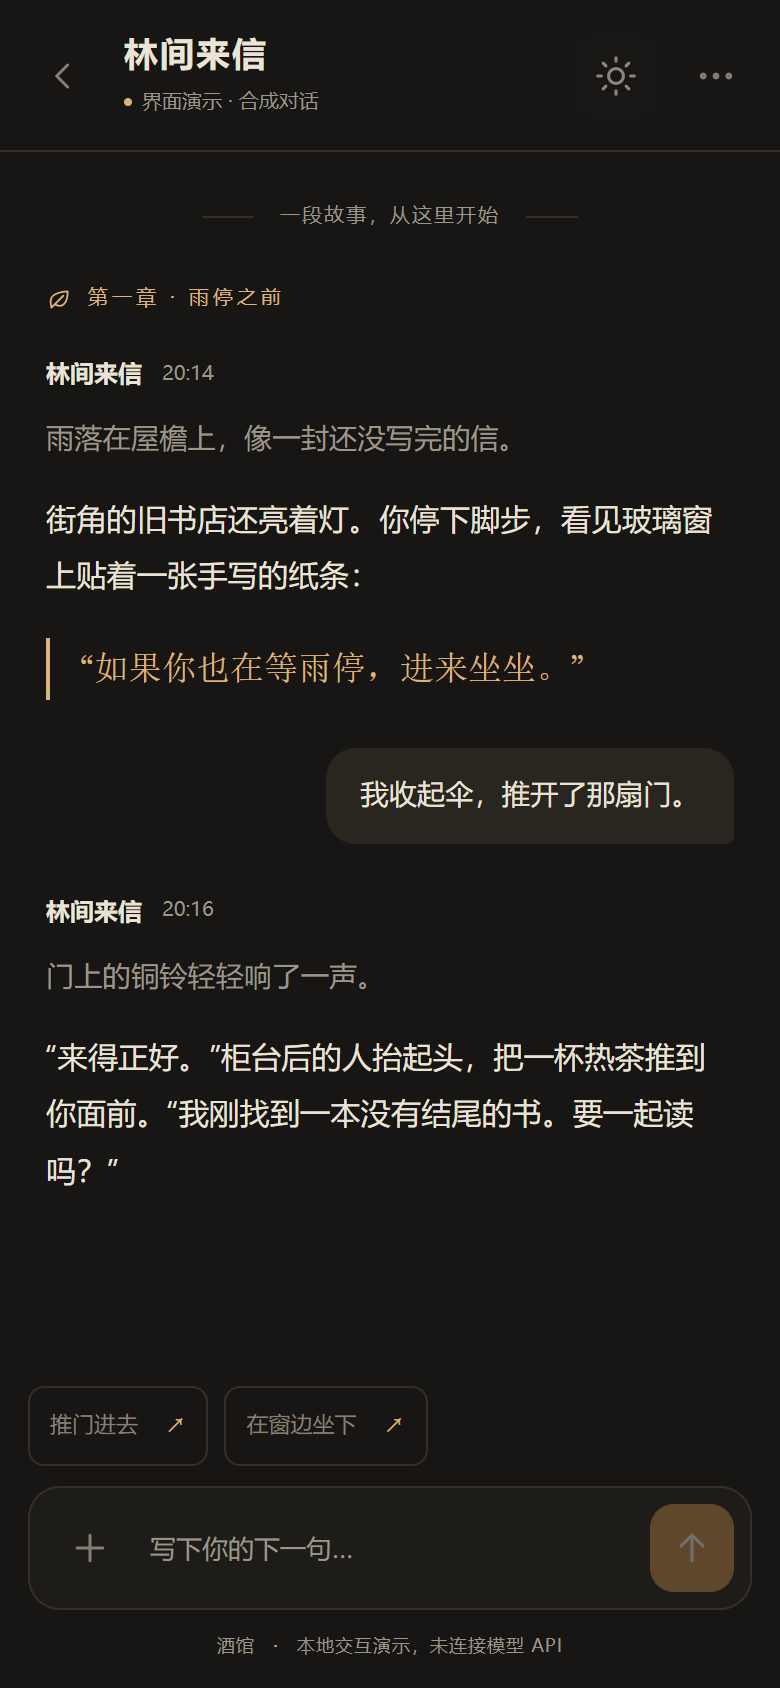
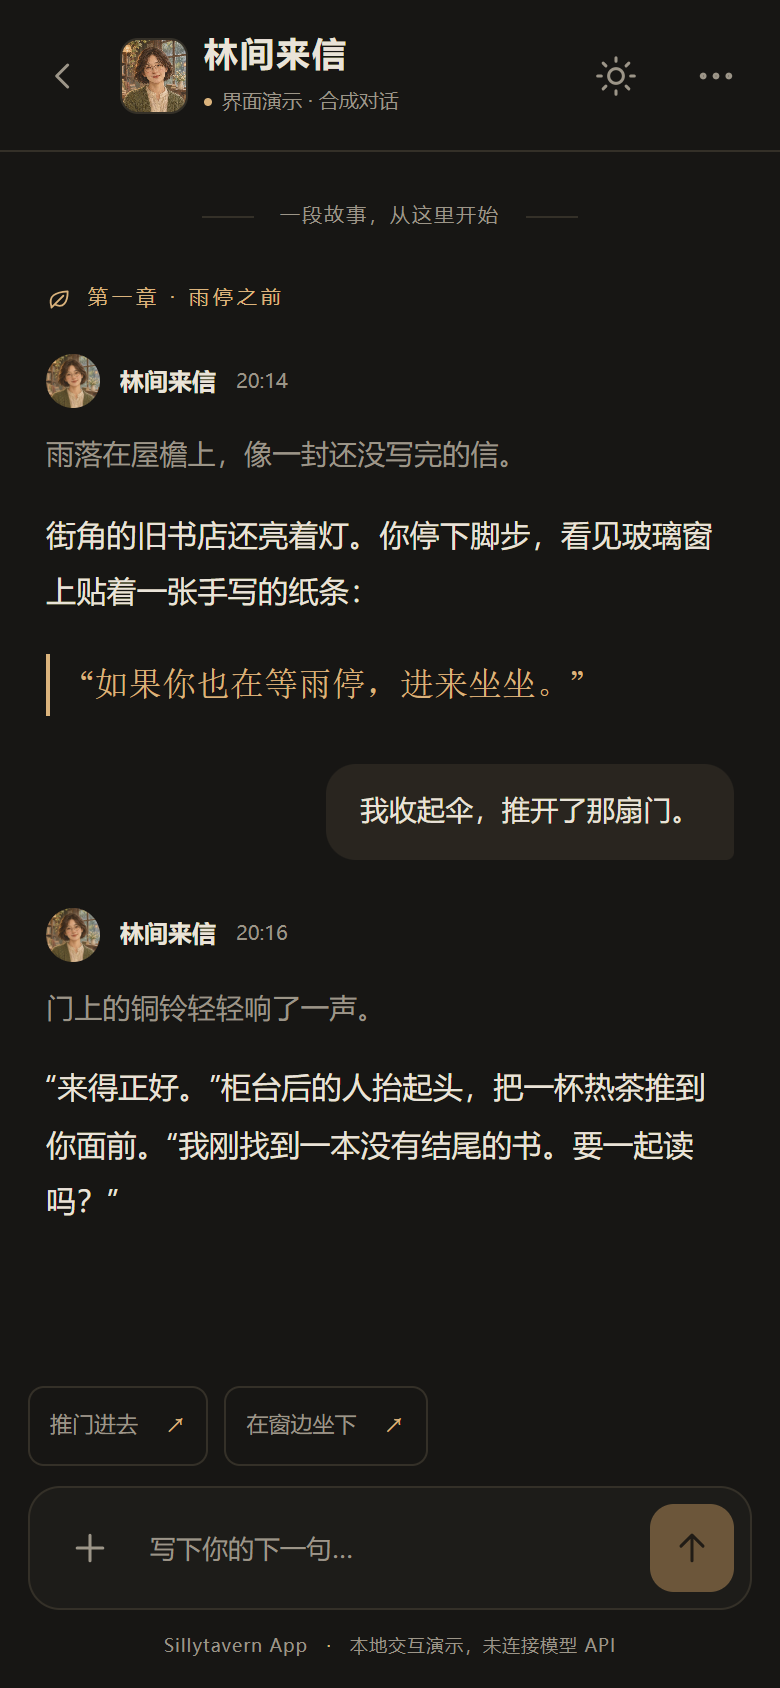
Rename project to Sillytavern App and refresh README with original artwork

diff --git a/app/src/main/java/io/jiuguan/mobile/TavernService.kt b/app/src/main/java/io/jiuguan/mobile/TavernService.kt
@@ -13,7 +13,7 @@ class TavernService : Service() {
     private val worker = Executors.newSingleThreadExecutor()
     private lateinit var runtime: TavernRuntime
     private val listeners = mutableSetOf<(State) -> Unit>()
-    var state = State("starting", "正在准备酒馆…")
+    var state = State("starting", "正在准备 Sillytavern App…")
         private set
     private var launched = false
     private var destroyed = false
@@ -22,7 +22,7 @@ class TavernService : Service() {
         super.onCreate()
         runtime = TavernRuntime(this)
         getSystemService(NotificationManager::class.java).createNotificationChannel(
-            NotificationChannel("tavern", "酒馆本机服务", NotificationManager.IMPORTANCE_LOW))
+            NotificationChannel("tavern", "Sillytavern App 本机服务", NotificationManager.IMPORTANCE_LOW))
     }
     override fun onBind(intent: Intent) = binder
     fun observe(listener: (State) -> Unit) { listeners.add(listener); listener(state) }
@@ -30,7 +30,7 @@ class TavernService : Service() {
 
     override fun onStartCommand(intent: Intent?, flags: Int, startId: Int): Int {
         if (intent?.action == "STOP") {
-            publish(State("stopped", "酒馆已停止，数据保留。重新打开应用即可继续。"))
+            publish(State("stopped", "Sillytavern App 已停止，数据保留。重新打开应用即可继续。"))
             worker.shutdownNow()
             Thread { runtime.stop() }.start()
             stopForeground(STOP_FOREGROUND_REMOVE)
@@ -45,7 +45,7 @@ class TavernService : Service() {
                     runtime.start { message -> main.post { publish(State("starting", message)) } }
                     main.post {
                         if (!destroyed && state.phase != "stopped") {
-                            publish(State("running", "酒馆正在本机运行", runtime.url))
+                            publish(State("running", "Sillytavern App 正在本机运行", runtime.url))
                             main.postDelayed(health, 3000)
                         }
                     }
@@ -67,7 +67,7 @@ class TavernService : Service() {
         override fun run() {
             if (destroyed || state.phase != "running") return
             if (!runtime.isAlive) {
-                publish(State("error", "酒馆服务已退出，请重新启动应用。"))
+                publish(State("error", "Sillytavern App 服务已退出，请重新启动应用。"))
                 stopForeground(STOP_FOREGROUND_REMOVE)
                 stopSelf()
             } else main.postDelayed(this, 3000)
@@ -85,8 +85,8 @@ class TavernService : Service() {
         val open = PendingIntent.getActivity(this, 0, Intent(this, MainActivity::class.java), PendingIntent.FLAG_IMMUTABLE or PendingIntent.FLAG_UPDATE_CURRENT)
         val stop = PendingIntent.getService(this, 1, Intent(this, TavernService::class.java).setAction("STOP"), PendingIntent.FLAG_IMMUTABLE or PendingIntent.FLAG_UPDATE_CURRENT)
         return Notification.Builder(this, "tavern").setSmallIcon(R.drawable.ic_tavern)
-            .setContentTitle("酒馆").setContentText(text).setContentIntent(open).setOngoing(true)
-            .addAction(Notification.Action.Builder(null, "停止酒馆", stop).build()).build()
+            .setContentTitle("Sillytavern App").setContentText(text).setContentIntent(open).setOngoing(true)
+            .addAction(Notification.Action.Builder(null, "停止服务", stop).build()).build()
     }
     override fun onDestroy() {
         destroyed = true

diff --git a/docs/demo/demo.js b/docs/demo/demo.js
@@ -6,19 +6,23 @@ const stories = [
 const transcript=document.querySelector('#transcript');
 const input=document.querySelector('#message');
 const send=document.querySelector('.send-button');
+const portraits=['lin-portrait.webp','star-portrait.webp','night-portrait.webp'];
+function portrait(index,className=''){
+  const img=document.createElement('img');img.src=`../images/${portraits[index]}`;img.alt='';img.className=className;img.width=48;img.height=48;return img;
+}
 let current=0;
 function icon(name){return `<svg aria-hidden="true"><use href="#${name}"/></svg>`;}
 function message(kind,text,time='20:16'){
   const item=document.createElement('article');item.className=`message ${kind}`;
   const label=document.createElement('div');label.className='message-label';
   const name=document.createElement('span');name.textContent=kind==='user'?'我':stories[current].title;
-  const clock=document.createElement('time');clock.textContent=time;label.append(name,clock);item.append(label);
+  const clock=document.createElement('time');clock.textContent=time;if(kind==='assistant')label.append(portrait(current,'message-avatar'));label.append(name,clock);item.append(label);
   for(const [i,line] of text.entries()){const p=document.createElement('p');p.textContent=line;if(kind==='assistant'&&i===0)p.className='narration';item.append(p);}
   return item;
 }
 function openStory(index){
   current=index;const story=stories[index];input.value='';send.disabled=true;
-  document.querySelector('#chat-title').textContent=story.title;document.querySelector('.chat-avatar').textContent=story.initial;
+  document.querySelector('#chat-title').textContent=story.title;document.querySelector('.chat-avatar').replaceChildren(portrait(index));
   transcript.replaceChildren();
   const date=document.createElement('div');date.className='date-divider';date.textContent='一段故事，从这里开始';transcript.append(date);
   const chapter=document.createElement('div');chapter.className='story-heading';chapter.innerHTML=icon('leaf');chapter.append(story.chapter);transcript.append(chapter);
@@ -30,7 +34,8 @@ function openStory(index){
 for(const nav of document.querySelectorAll('.conversations')){
   for(const [i,story] of stories.entries()){
     const b=document.createElement('button');b.className='conversation';b.dataset.story=i;
-    b.innerHTML=`<span class="initial">${story.initial}</span><span><strong>${story.title}</strong><small>${story.caption}</small></span>`;
+    b.innerHTML=`<span class="initial"></span><span><strong>${story.title}</strong><small>${story.caption}</small></span>`;
+    b.querySelector('.initial').append(portrait(i));
     b.addEventListener('click',()=>{openStory(i);document.querySelector('#chat-dialog').close();});nav.append(b);
   }
 }

diff --git a/docs/demo/index.html b/docs/demo/index.html
@@ -4,7 +4,7 @@
   <meta charset="utf-8">
   <meta name="viewport" content="width=device-width, initial-scale=1, viewport-fit=cover">
   <meta name="color-scheme" content="light dark">
-  <title>酒馆 · 聊天界面演示</title>
+  <title>Sillytavern App · 聊天界面演示</title>
   <link rel="stylesheet" href="style.css">
   <script src="demo.js" defer></script>
 </head>
@@ -22,7 +22,7 @@
   </svg>
   <main class="app">
     <aside class="sidebar" aria-label="演示会话">
-      <a class="brand" href="https://github.com/zjldg666/jiuguan"><span class="brand-mark">酒</span><span>酒馆<small>JIUGUAN</small></span></a>
+      <a class="brand" href="https://github.com/zjldg666/sillytavern-app"><span class="brand-mark">S</span><span>Sillytavern<small>APP</small></span></a>
       <div class="sidebar-intro">留一点时间，<br>给故事。</div>
       <p class="section-caption">演示会话</p>
       <nav class="conversations" aria-label="选择演示会话"></nav>
@@ -44,11 +44,11 @@
           <textarea id="message" rows="1" maxlength="600" placeholder="写下你的下一句…" aria-label="消息内容"></textarea>
           <button type="submit" class="send-button" aria-label="发送演示消息" disabled><svg><use href="#send"/></svg></button>
         </form>
-        <p class="demo-caption">酒馆 <span>·</span> 本地交互演示，未连接模型 API</p>
+        <p class="demo-caption">Sillytavern App <span>·</span> 本地交互演示，未连接模型 API</p>
       </footer>
     </section>
   </main>
-  <dialog id="info-dialog"><div class="dialog-body"><span class="eyebrow">ABOUT THIS DEMO</span><h2>只是一段演示。</h2><p>这里使用原创合成对话，展示酒馆的聊天阅读体验。发送内容只存在当前页面，回复为预置文本，不会调用模型 API。</p><p>这是独立的 README 演示前端，不是 Android 实机截图，也不作为 App 功能验收证据。</p><button class="dialog-close">知道了</button></div></dialog>
+  <dialog id="info-dialog"><div class="dialog-body"><span class="eyebrow">ABOUT THIS DEMO</span><h2>只是一段演示。</h2><p>这里使用原创合成对话与 AI 生成的原创角色肖像，展示 Sillytavern App 的聊天阅读体验。发送内容只存在当前页面，回复为预置文本，不会调用模型 API。</p><p>这是独立的 README 演示前端，不是 Android 实机截图，也不作为 App 功能验收证据。</p><button class="dialog-close">知道了</button></div></dialog>
   <dialog id="chat-dialog"><div class="dialog-body"><h2>选择一段故事</h2><nav class="conversations"></nav><button class="dialog-close">返回</button></div></dialog>
 </body>
 </html>

diff --git a/docs/demo/style.css b/docs/demo/style.css
@@ -12,7 +12,7 @@ svg { width:22px;height:22px; fill:none;stroke:currentColor;stroke-width:1.65;st
 .symbols { position:absolute;width:0;height:0;overflow:hidden; }
 .app { display:grid;grid-template-columns:264px minmax(0,780px);max-width:1044px;height:100dvh;margin:0 auto;border-inline:1px solid var(--line); }
 .sidebar { border-right:1px solid var(--line);padding:34px 22px;display:flex;flex-direction:column;background:var(--paper); }
-.brand { display:flex;gap:12px;align-items:center;text-decoration:none;color:var(--text);font-size:22px;font-weight:600;letter-spacing:2px; }
+.brand { display:flex;gap:12px;align-items:center;text-decoration:none;color:var(--text);font-size:20px;font-weight:600;letter-spacing:.2px; }
 .brand-mark { display:grid;place-items:center;width:42px;height:46px;border:1px solid var(--accent);border-radius:13px 13px 4px 4px;color:var(--accent);font-family:serif; }
 .brand small { display:block;font-size:9px;letter-spacing:3px;font-weight:400;line-height:1.2;color:var(--muted); }
 .sidebar-intro { margin:48px 0 36px;font-family:Georgia,"Songti SC",serif;font-size:26px;line-height:1.65;letter-spacing:1px; }
@@ -29,6 +29,9 @@ svg { width:22px;height:22px; fill:none;stroke:currentColor;stroke-width:1.65;st
 .workspace { display:flex;flex-direction:column;min-height:0;min-width:0; }
 .header { height:82px;display:flex;align-items:center;gap:12px;padding:0 28px;border-bottom:1px solid var(--line);flex-shrink:0;background:var(--bg); }
 .chat-avatar { display:grid;place-items:center;flex-shrink:0;width:40px;height:44px;border:1px solid var(--line);border-radius:11px;background:var(--paper);font:24px Georgia,"Songti SC",serif;color:var(--accent); }
+.chat-avatar,.conversation .initial { overflow:hidden; }
+.chat-avatar img,.initial img { display:block;width:100%;height:100%;object-fit:cover; }
+.message-avatar { width:27px;height:27px;object-fit:cover;border-radius:50%; }
 .heading { flex:1;min-width:0; }
 h1 { font-size:17px;line-height:1.3;letter-spacing:1px;font-weight:600;margin:0 0 5px; }
 .heading p { display:flex;align-items:center;gap:5px;font-size:10px;color:var(--muted);margin:0; }
@@ -78,7 +81,7 @@ h2 { font-size:23px;letter-spacing:1px;font-weight:500;margin:10px 0 18px; }
   .workspace { width:100%; }
   .header { height:76px;padding:0 10px;gap:6px; }
   .mobile-back { display:grid; }
-  .chat-avatar { display:none; }
+  .chat-avatar { display:grid;width:34px;height:38px;border-radius:9px; }
   .heading { padding-left:2px; }
   h1 { font-size:17px; }
   .transcript { padding:24px 23px 12px; }

diff --git a/app/src/main/java/io/jiuguan/mobile/MainActivity.kt b/app/src/main/java/io/jiuguan/mobile/MainActivity.kt
@@ -136,7 +136,7 @@ class MainActivity : Activity() {
             orientation = LinearLayout.VERTICAL; gravity = Gravity.CENTER
             setPadding(32, 32, 32, 32)
         }
-        title = TextView(this).apply { text = "酒馆"; textSize = 28f; gravity = Gravity.CENTER }
+        title = TextView(this).apply { text = "Sillytavern App"; textSize = 28f; gravity = Gravity.CENTER }
         status.addView(title)
         progress = ProgressBar(this)
         status.addView(progress, LinearLayout.LayoutParams(72, 72).apply { gravity = Gravity.CENTER; topMargin = 40; bottomMargin = 28 })
@@ -146,7 +146,7 @@ class MainActivity : Activity() {
         status.addView(retry)
         root.addView(status, FrameLayout.LayoutParams(-1, -1))
         applyChrome()
-        showStatus("正在准备酒馆…", false)
+        showStatus("正在准备 Sillytavern App…", false)
         if (Build.VERSION.SDK_INT >= 33 && checkSelfPermission(android.Manifest.permission.POST_NOTIFICATIONS) != android.content.pm.PackageManager.PERMISSION_GRANTED) {
             requestPermissions(arrayOf(android.Manifest.permission.POST_NOTIFICATIONS), 20)
         }
@@ -223,7 +223,7 @@ class MainActivity : Activity() {
         if (state.phase == "running" && state.url != null) {
             if (origin != state.url) {
                 origin = state.url
-                showStatus("正在打开酒馆…", false)
+                showStatus("正在打开 Sillytavern App…", false)
                 web.loadUrl(state.url)
             } else status.visibility = View.GONE
         } else showStatus(state.message, state.phase == "error" || state.phase == "stopped")

diff --git a/app/src/main/assets/extensions/jiuguan-mobile/index.js b/app/src/main/assets/extensions/jiuguan-mobile/index.js
@@ -433,7 +433,7 @@
             row.dataset.panel = drawer.id; group.append(row);
         }
         more.append(group); content.append(more);
-        content.append(node('p', 'jg-version', '酒馆 · SillyTavern 1.19.0'));
+        content.append(node('p', 'jg-version', 'Sillytavern App · SillyTavern 1.19.0'));
     }
 
     async function guarded(action) {

diff --git a/docs/images/README.md b/docs/images/README.md
@@ -1,9 +1,28 @@
-# 截图来源
+# README 图片来源
 
-`demo-chat-light.png` 与 `demo-chat-dark.png` 于 2026-11-10 从仓库 `docs/demo/index.html` 截取，浏览器视口 390 × 844、像素比例 2；图片为 780 × 1688。
+更新日期：2026-11-10。项目展示名称为 **Sillytavern App**。
 
-两张图展示独立 README 前端的白天 / 黑夜模式。对话是为本项目编写的合成内容，未使用第三方角色卡图片、用户聊天或模型 API；图片没有手机系统栏，不冒充真机截图。
+## 原创生成素材
 
-此前采集的第三方角色卡和个人设置截图已移出公开文档，只保留在被 Git 排除的本地测试产物中。
+以下四张插画使用用户授权的当前 API 端点，通过未经修改的官方 imagegen CLI 调用 `gpt-image-2` 生成，质量参数为 `medium`。未使用第三方角色卡、参考人物照片或用户私有素材。封面标题是生成后单独排版的文字。
 
-重新截图时在浏览器打开演示页，选择“林间来信”，使用上述视口；黑夜模式通过页面右上角切换。截图不作为 APK 验收证据，APK 检查见对应发布说明。
+- `tavern-cover.webp`：雨夜酒馆与书房，1599 × 900；加入项目名和简介。
+- `lin-portrait.webp`：林间来信的书店店主，640 × 640。
+- `star-portrait.webp`：星际漫游的领航员，640 × 640。
+- `night-portrait.webp`：夜航笔记的写作者，640 × 640。
+
+完整生成提示词保存在 [generation-prompts.jsonl](generation-prompts.jsonl)。封面生成时项目尚名 Jiuguan，最终排版已改为 Sillytavern App。请求尺寸为封面 1536 × 1024、角色 1024 × 1024；端点实际返回封面 1672 × 941、角色 1254 × 1254。发布素材等比例缩小并转为 WebP，四张合计约 490 KiB。
+
+这些图片是概念插画和虚构角色肖像，仅用于 README 与独立演示页，不是内置角色卡，也不代表 APK 内提供这些角色或故事。图片已逐张打开检查。
+
+## 浏览器截图
+
+`demo-chat-light.png` 与 `demo-chat-dark.png` 从仓库 `docs/demo/index.html` 实际渲染截图。浏览器视口 390 × 844、像素比例 2；图片尺寸为 780 × 1688。
+
+两张截图展示独立 README 前端的白天 / 黑夜模式，头像采用上述原创生成素材，对话是为本项目编写的合成内容。页面交互不调用模型 API、不读取个人数据。它们不是 Android 实机截图，也不作为 APK 验收证据。
+
+本次已检查 320 / 390 / 768 / 1280px 下的两种主题：无横向溢出，头像加载成功、输入框可见；主题切换、会话切换、发送预置回复与 Escape 关闭弹窗正常。无页面脚本错误或外部网络请求。检查后重新查看了发布截图。
+
+重新截图时在浏览器打开演示页，选择“林间来信”，使用上述视口；黑夜模式通过页面右上角切换或添加 `?theme=dark`。
+
+此前采集的第三方角色卡和个人设置截图不在公开文档内。APK 检查范围见对应发布说明，历史记录不因文档换图或项目更名而改变。

diff --git a/docs/ANDROID-BUILD.md b/docs/ANDROID-BUILD.md
@@ -40,7 +40,7 @@ $env:JIUGUAN_NODE = 'C:/Program Files/nodejs/node.exe'
 .\gradlew.bat :app:assembleDebug :app:lintDebug "-PnodeExecutable=$env:JIUGUAN_NODE"
 ```
 
-输出：`app/build/outputs/apk/debug/app-debug.apk`。包名：`io.jiuguan.mobile.debug`；名称：酒馆（开发版）。
+输出：`app/build/outputs/apk/debug/app-debug.apk`。包名：`io.jiuguan.mobile.debug`；名称：Sillytavern App（开发版）。
 
 首次构建自动生成 `.tools/android-debug.keystore`。不同机器的密钥可能不同，更新已有安装前先核对签名。Android Studio 中打开仓库根目录、选择 JDK 21、同步 Gradle，选择 app 的 debug 变体即可运行。
 

diff --git a/docs/demo/README.md b/docs/demo/README.md
@@ -4,6 +4,7 @@
 
 - 白天 / 黑夜切换，暖白与暖炭黑配色，琥珀色强调。
 - 三段原创合成对话：林间来信、星际漫游、夜航笔记。
+- 三位 AI 生成的原创角色肖像，图片随仓库提供，离线加载；不使用第三方角色卡。
 - 输入、快捷回复、会话选择与说明弹窗可以操作。
 - 发送内容只在页面内存中显示，回复为预置文本；不调用模型，不保存私人数据。
 - URL 加 `?theme=dark` 可直接打开黑夜模式。
